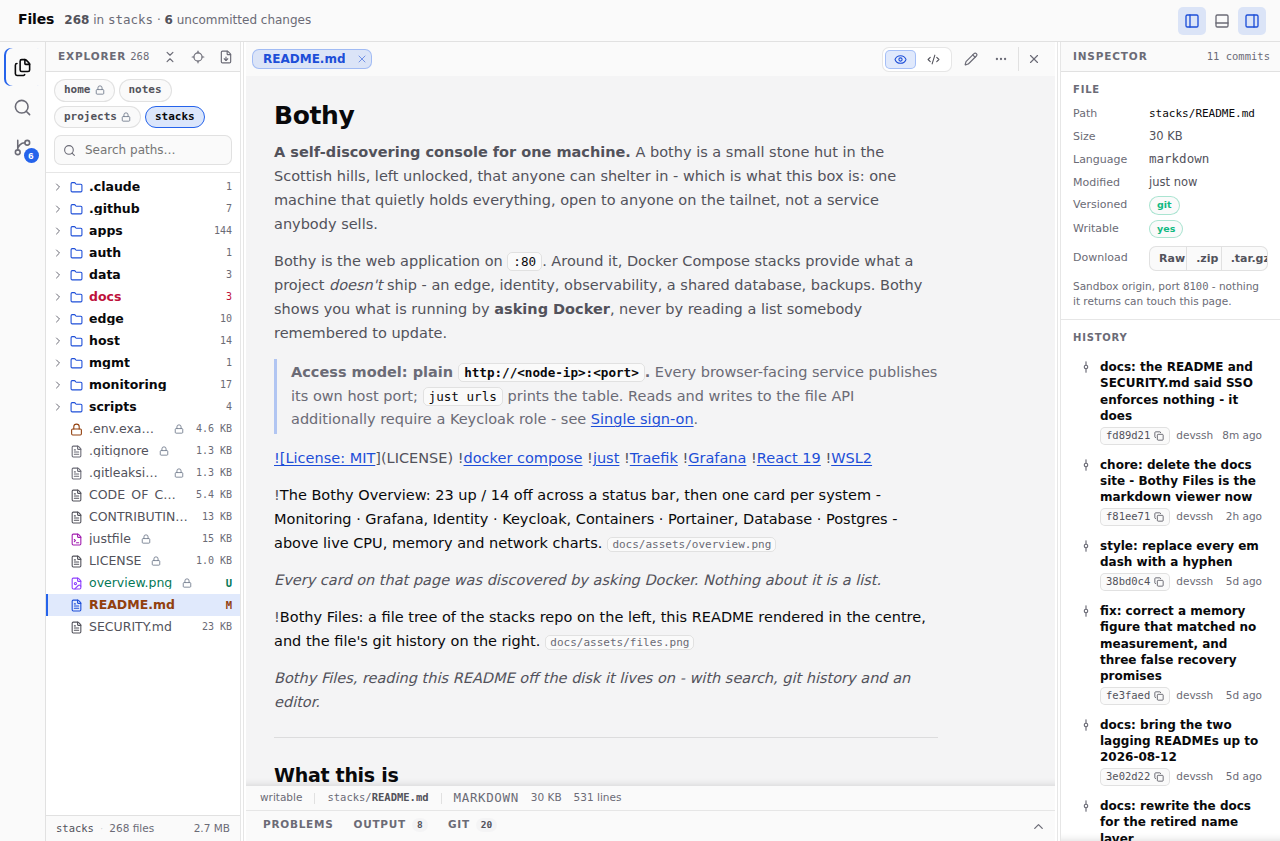
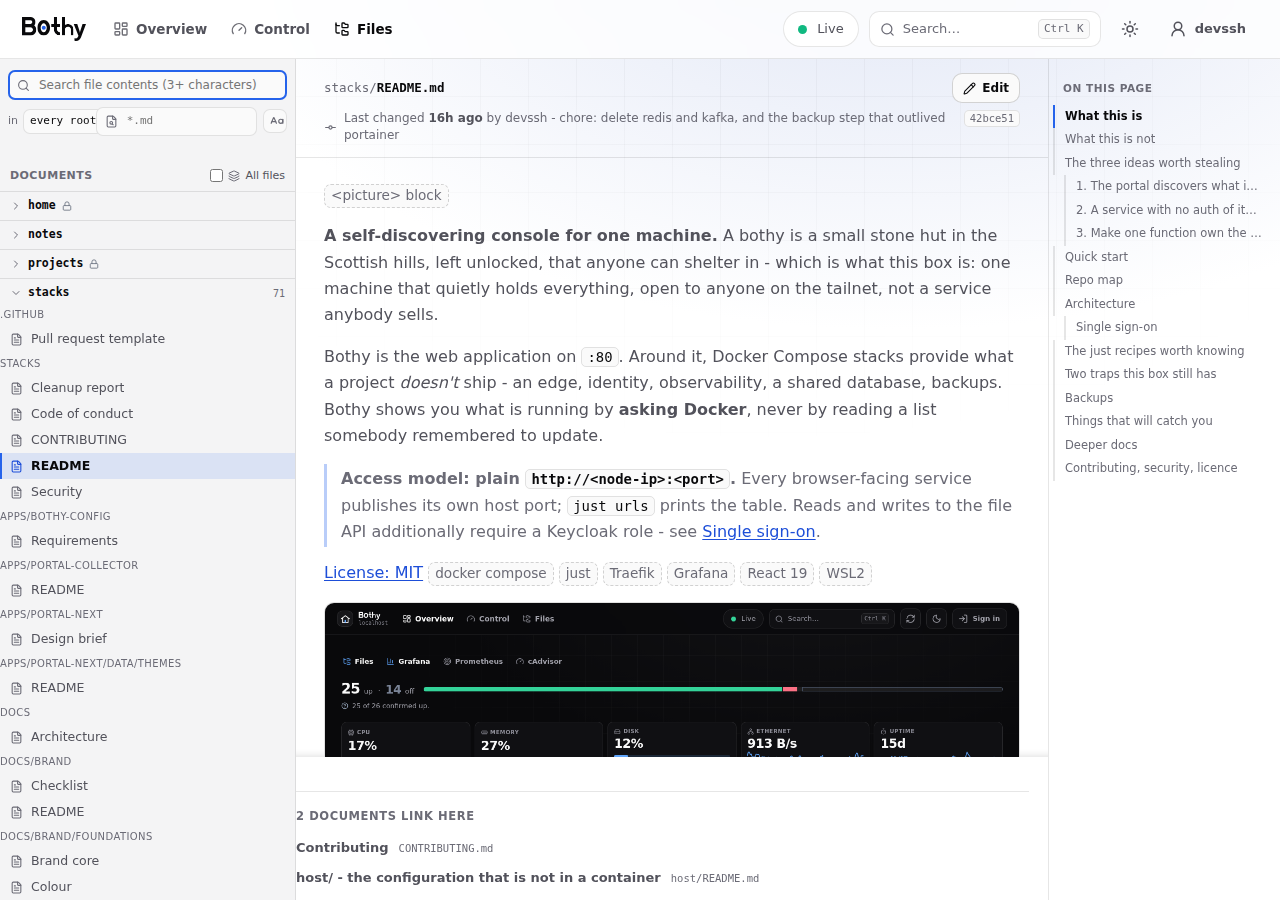
docs: the README wears the wordmark, and Bothy stops printing markup at you
Three things, and the third was found by doing the first.

THE WORDMARK IS AT THE TOP, in light and dark variants behind a <picture>.
Two files rather than one because `currentColor` resolves to BLACK inside
an <img>, which is the same trap that made this mark theme-blind in the app
and would have made it invisible on GitHub's dark theme.

Each variant carries literal colours taken from the theme it sits on -
Bothy Dark's --fg and --accent, Bothy Light's - and the LIT DOT is drawn as
geometry here, since in the app it is a CSS pseudo-element. Its centre is
the same measured fraction the CSS uses: 33.9% across, 45.0% down, 7% wide.

A HARDCODED TAILNET ADDRESS CAME OUT OF THE README. Line 527 pointed at
this box's IP while the access-model note four screens above it uses
`http://<node-ip>:<port>` - the README contradicting its own convention, on
the front page of a public repository. The portability baseline had accepted
it; it is one entry shorter now.

files.png IS REGENERATED. It was stale twice over: the topbar lost its hut
tile and address line, and then the reader itself changed. Taken from the
tailnet address rather than localhost, which is newly safe for exactly the
reason above - the address no longer appears in the chrome, and the page was
checked for it before the shutter.

── and the regression the screenshot caught ────────────────────────────────

Adding <picture> to README.md made Bothy's own reader print three lines of
[…]

diff --git a/apps/portal-next/web/src/pages/files/md.tsx b/apps/portal-next/web/src/pages/files/md.tsx
@@ -234,6 +234,11 @@ function inlineMd(text: string, k: string, links?: MdLinks): ReactNode[] {
 const RE_FENCE = /^```(\S*)\s*$/;
 const RE_HEAD = /^(#{1,6})\s+(.*)$/;
 const RE_RULE = /^\s*(-{3,}|\*{3,}|_{3,})\s*$/;
+// A raw HTML block - a line that STARTS with a tag. Markdown allows it and this
+// renderer has never understood it, so until now it printed the source: after
+// README.md grew a <picture> for its light/dark wordmark, the first thing in the
+// most-read document on the box was three lines of markup.
+const RE_HTML = /^\s*<([a-zA-Z][a-zA-Z0-9-]*)(\s|>|\/)/;
 const RE_QUOTE = /^>\s?/;
 const RE_ITEM = /^(\s*)([-*+]|\d+[.)])\s+(.*)$/;
 
@@ -343,6 +348,30 @@ export function renderMd(src: string, k = 'b', links?: MdLinks): ReactNode[] {
     }
 
     if (RE_RULE.test(line)) { out.push(<hr className="md-hr" key={key()} />); i++; continue; }
+
+    // ── a raw HTML block ────────────────────────────────────────────────────
+    //
+    // Consumed to the next blank line and rendered as a CHIP naming the tag -
+    // the same treatment a remote image gets, and for the same reason: saying
+    // "something was here, and what" beats printing its source, and beats
+    // silently dropping it.
+    //
+    // It is emphatically NOT rendered. Interpreting it would mean turning file
+    // content into markup, which is the one thing this renderer is built never
+    // to do - and the reason it needs no sanitiser.
+    const htm = line.match(RE_HTML);
+    if (htm) {
+      const from = i;
+      while (i < lines.length && lines[i].trim() !== '') i++;
+      out.push(
+        <p className="md-p" key={key()}>
+          <span className="md-img-remote" title={lines.slice(from, i).join('\n')}>
+            {`<${htm[1]}> block`}
+          </span>
+        </p>,
+      );
+      continue;
+    }
 
     if (RE_QUOTE.test(line)) {
       const buf: string[] = [];

diff --git a/scripts/checks/portability-baseline.py b/scripts/checks/portability-baseline.py
@@ -1,0 +1,93 @@
+#!/usr/bin/env python3
+"""Rewrite the portability baseline, keeping the reasoning attached to each entry.
+
+Called only by `portability.sh --update`. It exists as its own file rather than a
+heredoc because it is a merge, not a print, and a forty-line heredoc inside a
+shell script is where quoting bugs go to live.
+
+WHY IT IS A MERGE AT ALL. The first version regenerated the baseline from
+scratch, and on its second real use it silently ate a seven-line note explaining
+why `apps/portal-next/checks/repo-roots.mjs` holds 18 home-path hits ON PURPOSE -
+every one a fictional machine (`/home/ada`, `/opt/bothy`), because that file
+exists to prove Bothy runs on a checkout that is NOT this one.
+
+That note is the only thing standing between a future reader and "fixing" a
+portability problem that is really a test fixture. A tool that throws away the
+argument for the thing it is recording is worse than one that refuses to run: the
+entry survives looking unjustified, and the reasoning is gone.
+
+A comment block belongs to the entry it PRECEDES - which is how they are written
+in the file - so it travels with that entry: re-emitted when the entry survives,
+dropped when the entry does.
+"""
+import os
+import sys
+
+HEADER = [
+    "# Accepted portability hits. Generated by scripts/checks/portability.sh --update.",
+    "#",
+    "# Every line here is a reason someone else cannot run this repository.",
+    "# The list should only ever get SHORTER. If you are adding to it, you are",
+    "# adding a reason - say why in the commit message.",
+    "#",
+    "# file<TAB>kind<TAB>count",
+]
+
+path = sys.argv[1]
+now = [l for l in os.environ.get("NOW", "").split("\n") if l.strip()]
+
+
+def key(line):
+    """(file, kind) - the identity of an entry. The COUNT is expected to change."""
+    return tuple(line.split("\t")[:2])
+
+
+# ── read the old file as (comment block, entry) pairs ───────────────────────
+pairs, block, seen_first = [], [], False
+try:
+    with open(path, encoding="utf-8") as fh:
+        for line in fh.read().split("\n"):
+            if line.startswith("#"):
+                block.append(line)
+            elif line.strip():
+                pairs.append((block, line))
+                block, seen_first = [], True
+            else:
+                # A blank line ends a block: a comment separated from an entry by
+                # whitespace is a section note, not that entry's reason.
+                block = []
+except FileNotFoundError:
+    pass
+
+# THE HEADER AND THE FIRST ENTRY'S REASONING ARE ONE BLOCK - there is no blank
+# line between them, so a naive "drop the leading block" throws away the first
+# entry's argument along with the boilerplate. That is exactly what happened: the
+# repo-roots.mjs note is the first entry's, and it vanished twice before this.
+#
+# The header ends at its last line, which is a fixed string. Anything after that
+# inside the same block belongs to the entry.
+if pairs:
+    first_block = pairs[0][0]
+    if HEADER[-1] in first_block:
+        cut = first_block.index(HEADER[-1]) + 1
+        pairs[0] = (first_block[cut:], pairs[0][1])
+    else:
+        pairs[0] = ([], pairs[0][1])
+
+current = {key(l): l for l in now}
+
+out, emitted = list(HEADER), set()
+for blk, entry in pairs:
+    k = key(entry)
+    if k in current:
+        out.extend(blk)
+        out.append(current[k])          # take the NEW count
+        emitted.add(k)
+    # else: the entry is gone, and its reasoning goes with it
+
+for line in now:
+    if key(line) not in emitted:
+        out.append(line)                # newly accepted, no reasoning yet
+
+with open(path, "w", encoding="utf-8") as fh:
+    fh.write("\n".join(out) + "\n")

diff --git a/README.md b/README.md
@@ -1,4 +1,8 @@
-# Bothy
+<picture>
+  <source media="(prefers-color-scheme: dark)" srcset="docs/brand/wordmark-dark.svg">
+  <img alt="Bothy" src="docs/brand/wordmark-light.svg" width="260">
+</picture>
+
 
 **A self-discovering console for one machine.** A bothy is a small stone hut in
 the Scottish hills, left unlocked, that anyone can shelter in - which is what
@@ -27,7 +31,7 @@ by reading a list somebody remembered to update.
 
 _Every card on that page was discovered by asking Docker. Nothing about it is a list._
 
-![Bothy Files: a file tree of the stacks repo on the left, this README rendered in the centre, and the file's git history on the right.](docs/assets/files.png)
+![Bothy Files: the document tree on the left, this README rendered in the centre with its screenshots inline, and the page outline on the right.](docs/assets/files.png)
 
 _Bothy Files, reading this README off the disk it lives on - with search, git history and an editor._
 
@@ -520,7 +524,7 @@ Backups sit on the same disk they protect. Copying them off the box is not solve
 
 ## Deeper docs
 
-- **Bothy Files** - <http://100.117.176.85/#/files>. Every markdown file on the
+- **Bothy Files** - `http://<node-ip>/#/files`. Every markdown file on the
   box, rendered, searchable and editable, read straight from disk.
 - [`docs/kb/`](docs/kb/README.md) - the operational knowledge base: topology,
   access paths, runbooks, incident files and the lessons they paid for.
